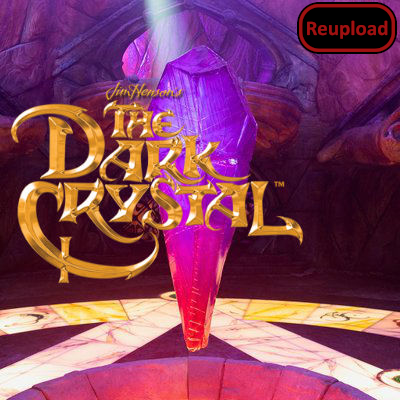
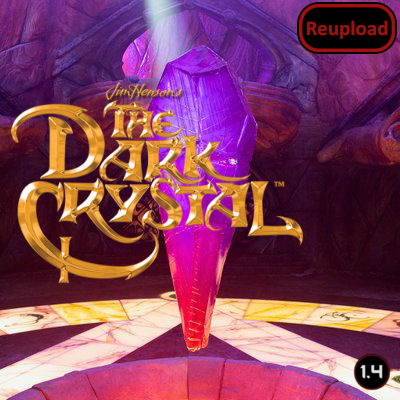
Last update, added end-of-life message

Changed region(s): [[0.87, 0.87, 0.99, 0.99]]

diff --git a/README.md b/README.md
@@ -7,7 +7,7 @@ https://steamcommunity.com/sharedfiles/filedetails/?id=1876594211
 
 - Fixed the scenario-definition
 
-![Image](https://i.imgur.com/pufA0kM.png)
+![Image](https://i.imgur.com/KFjAmff.png)
 
 	
 ![Image](https://i.imgur.com/Z4GOv8H.png)
@@ -54,12 +54,13 @@ Jim Henson Company.
 
 -  See if the the error persists if you just have this mod and its requirements active.
 -  If not, try adding your other mods until it happens again.
--  Post your error-log using https://steamcommunity.com/workshop/filedetails/?id=818773962]HugsLib and command Ctrl+F12
+-  Post your error-log using https://steamcommunity.com/workshop/filedetails/?id=818773962]HugsLib or the standalone https://steamcommunity.com/sharedfiles/filedetails/?id=2873415404]Uploader and command Ctrl+F12
 -  For best support, please use the Discord-channel for error-reporting.
 -  Do not report errors by making a discussion-thread, I get no notification of that.
 -  If you have the solution for a problem, please post it to the GitHub repository.
+-  Use https://github.com/RimSort/RimSort/releases/latest]RimSort to sort your mods
 
 
 
+https://steamcommunity.com/sharedfiles/filedetails/changelog/2126183806]![Image](https://img.shields.io/github/v/release/emipa606/DarkCrystalGelfling?label=latest%20version&style=plastic&color=9f1111&labelColor=black)
 
-https://steamcommunity.com/sharedfiles/filedetails/changelog/2126183806]Last updated 2023-01-09
